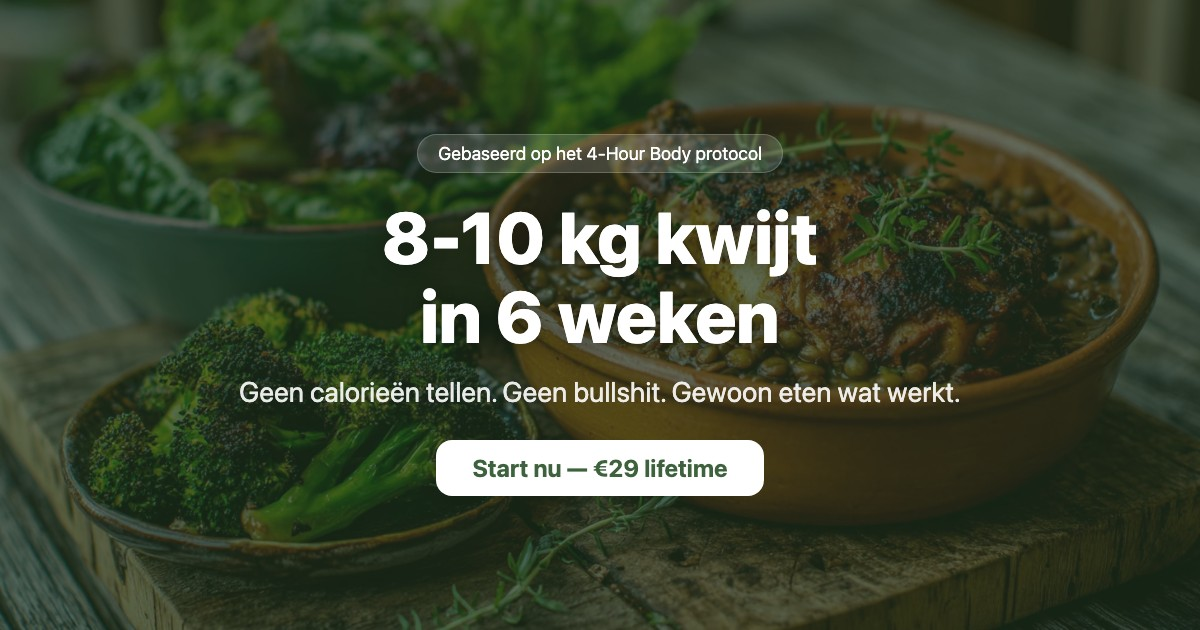
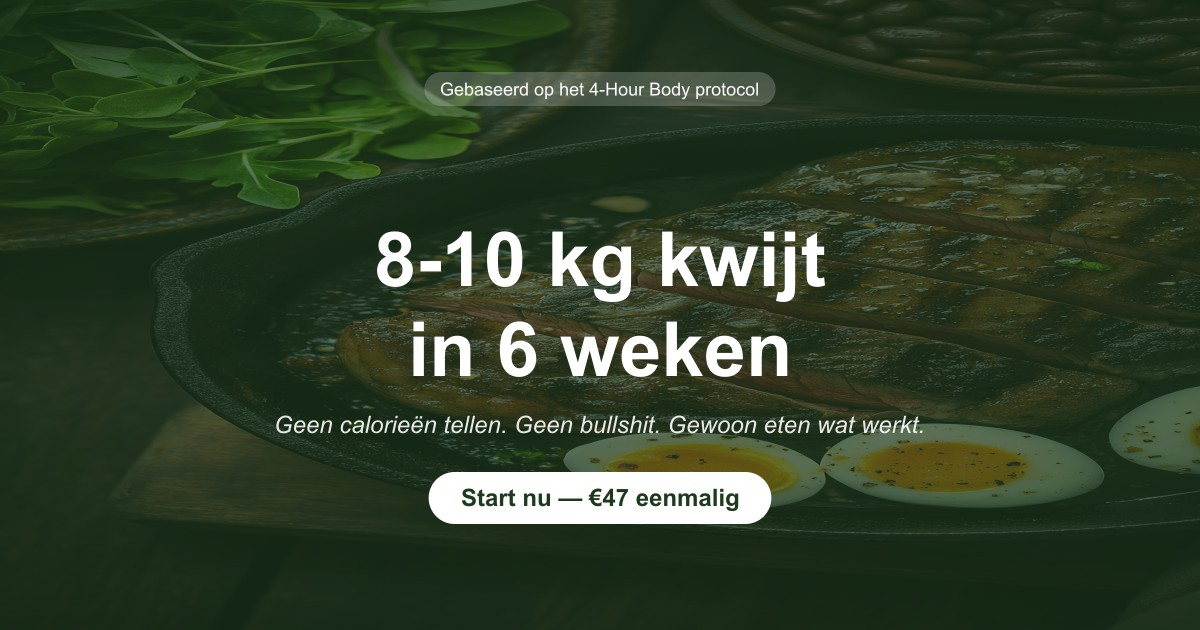
fix: SEO Dutch copy + OG image €47 eenmalig

diff --git a/index.html b/index.html
@@ -7,10 +7,10 @@
     <meta name="apple-mobile-web-app-capable" content="yes" />
     <meta name="apple-mobile-web-app-status-bar-style" content="default" />
     <meta name="apple-mobile-web-app-title" content="SlowCarb" />
-    <meta name="description" content="The SlowCarb app that helps you lose 8-10 kg in 84 days. No calorie counting. 50+ recipes, shopping list, and progress tracking. €47 lifetime." />
+    <meta name="description" content="De SlowCarb app waarmee je 8-10 kg afvalt in 84 dagen. Geen calorieën tellen. 50+ recepten, boodschappenlijst en voortgang bijhouden. €47 eenmalig." />
     
     <!-- Open Graph -->
-    <meta property="og:title" content="SlowCarb App — Lose 8-10 kg in 84 Days" />
+    <meta property="og:title" content="SlowCarb App — Val 8-10 kg af in 84 dagen" />
     <meta property="og:description" content="No calorie counting. No nonsense. Just eat what works. 50+ recipes, smart shopping list and progress tracking." />
     <meta property="og:image" content="https://eatslowcarb.com/images/landing/og-image.jpg" />
     <meta property="og:image:width" content="1200" />
@@ -21,7 +21,7 @@
     
     <!-- Twitter Card -->
     <meta name="twitter:card" content="summary_large_image" />
-    <meta name="twitter:title" content="SlowCarb App — Lose 8-10 kg in 84 Days" />
+    <meta name="twitter:title" content="SlowCarb App — Val 8-10 kg af in 84 dagen" />
     <meta name="twitter:description" content="No calorie counting. No nonsense. Just eat what works." />
     <meta name="twitter:image" content="https://eatslowcarb.com/images/landing/og-image.jpg" />
     
@@ -34,7 +34,7 @@
     <link href="https://fonts.googleapis.com/css2?family=Fraunces:ital,opsz,wght@0,9..144,400;0,9..144,500;0,9..144,600;0,9..144,700;0,9..144,900;1,9..144,400&family=Oswald:wght@400;500;600;700&family=Source+Sans+3:wght@400;500;600;700&display=swap" rel="stylesheet">
     <link href="https://api.fontshare.com/v2/css?f[]=satoshi@400,500,600,700&display=swap" rel="stylesheet">
     
-    <title>SlowCarb App — Lose 8-10 kg in 84 Days (No Counting)</title>
+    <title>SlowCarb App — Val 8-10 kg af in 84 dagen (zonder tellen)</title>
     
     <!-- Structured Data -->
     <script type="application/ld+json">
@@ -42,7 +42,7 @@
       "@context": "https://schema.org",
       "@type": "WebApplication",
       "name": "SlowCarb App",
-      "description": "Lose 8-10 kg in 84 days with the SlowCarb protocol. No calorie counting. 50+ recipes, shopping list, and progress tracking.",
+      "description": "Val 8-10 kg af in 84 dagen met het SlowCarb protocol. Geen calorieën tellen. 50+ recepten, boodschappenlijst en voortgang bijhouden.",
       "url": "https://eatslowcarb.com",
       "applicationCategory": "HealthApplication",
       "operatingSystem": "Web",
